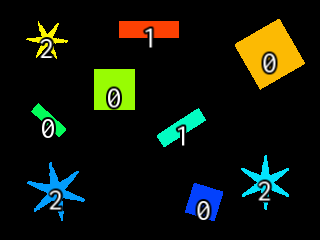
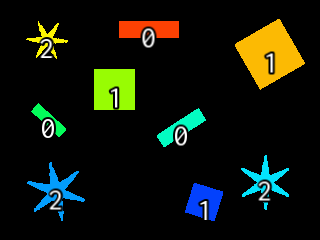
Signal fix

diff --git a/src/signals.cpp b/src/signals.cpp
@@ -71,10 +71,9 @@ namespace signals {
                 return;
             }
 
-            const auto xcm = massCenter.at(px.index).first;
-            const auto ycm = massCenter.at(px.index).second;
+            const auto [xcm, ycm] = massCenter.at(px.index);
 
-            muMap[px.index] += std::pow(x - xcm, xExp) + std::pow(y - ycm, yExp);
+            muMap[px.index] += std::pow(x - xcm, xExp) * std::pow(y - ycm, yExp);
         };
 
         forAll(img, fn);
@@ -144,11 +143,15 @@ namespace signals {
     }
 
     std::unordered_map<uint32_t, double> getPerimeters(const Image & img) {
+        return circumference(img);
+    }
+
+    std::unordered_map<uint32_t, double> getArea(const Image & img) {
         return moment(img, 0, 0);
     }
 
     std::unordered_map<uint32_t, ObjectSignals> getSignals(const Image & img) {
-        const auto m0 = getPerimeters(img);
+        const auto m0 = getArea(img);
         const auto par = perimeterAreaRatio(img, m0);
         const auto moi = momentOfInertia(img, m0);
 

diff --git a/include/image_analyzer.hpp b/include/image_analyzer.hpp
@@ -153,6 +153,7 @@ template <std::uint32_t objects, typename ThresholdProvider>
 void ImageAnalyzer<objects, ThresholdProvider>::recognizeObjects(const std::vector<signals::ObjectSignals> & signals, std::vector<Object> & obj) {
 
     for (const auto & sig : signals) {
+        std::cout << sig.index << " " << sig.momentOfInertia << " " << sig.perimeterAreaRatio << std::endl;
         obj[sig.index].type = recognizer.recognize(sig);
     }
 
